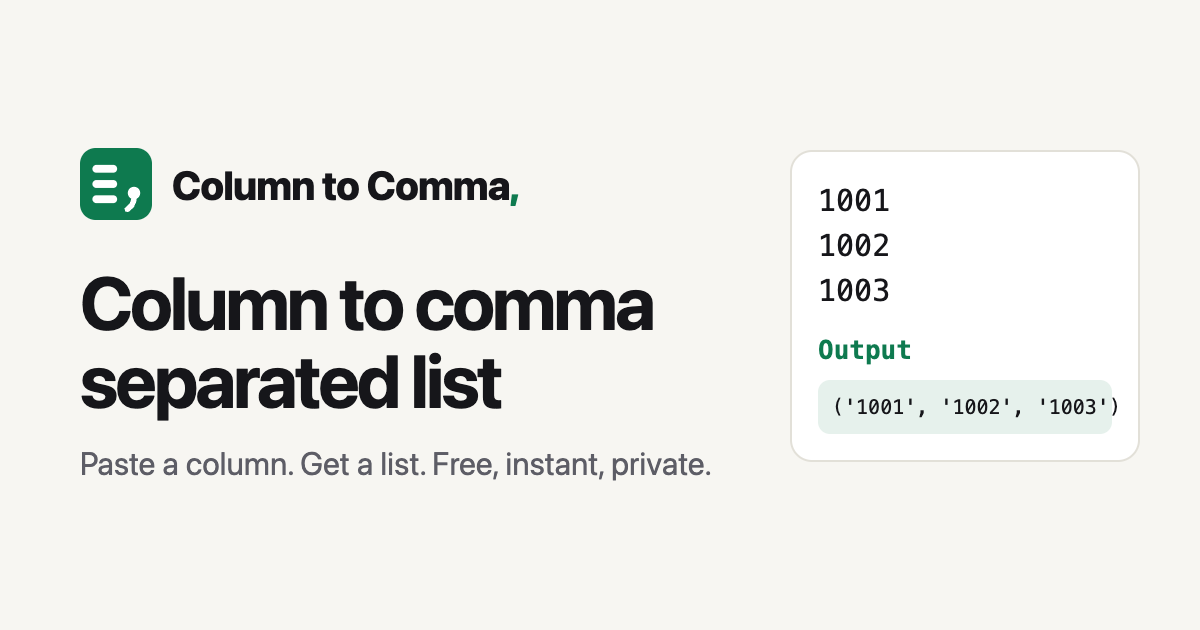
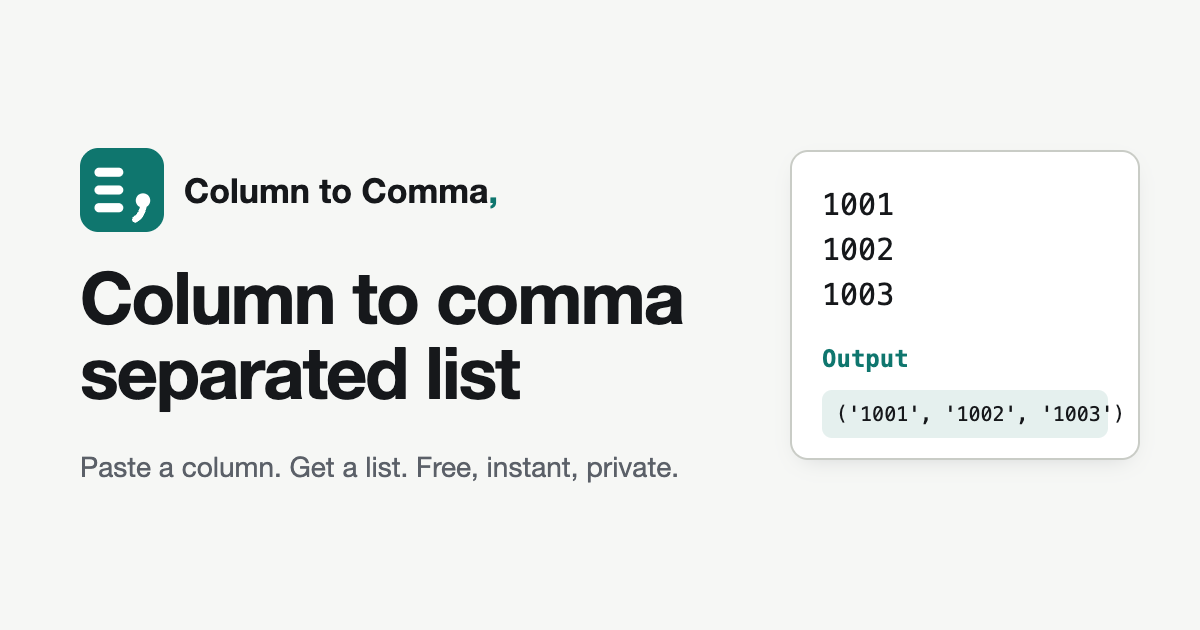
Restyle: refined minimal skin and accent

diff --git a/src/styles/global.css b/src/styles/global.css
@@ -3,6 +3,7 @@
 @custom-variant dark (&:where([data-theme="dark"], [data-theme="dark"] *));
 
 @theme inline {
+  --color-edge: var(--edge);
   --color-brand: var(--brand);
   --color-brand-ink: var(--brand-ink);
   --color-brand-soft: var(--brand-soft);
@@ -17,28 +18,38 @@
 
 :root {
   color-scheme: light;
-  --paper: #f7f6f2;
+  --paper: #f6f7f5;
   --card: #ffffff;
-  --ink: #16161a;
-  --muted: #5d5d66;
-  --line: #e2e0d8;
-  --brand-ink: color-mix(in oklab, var(--brand) 82%, black);
-  --brand-soft: color-mix(in oklab, var(--brand) 10%, var(--paper));
+  --ink: #16181b;
+  --muted: #5b6068;
+  --line: #e3e5e1;
+  --line-strong: #c9ccc6;
+  --edge: #878c93;
+  --card-shadow: 0 1px 2px rgb(16 24 40 / .05), 0 8px 24px -12px rgb(16 24 40 / .10);
+  --brand-ink: color-mix(in oklab, var(--brand) 85%, black);
+  --brand-soft: color-mix(in oklab, var(--brand) 11%, var(--card));
 }
 :root[data-theme="dark"] {
   color-scheme: dark;
-  --paper: #0f1012;
-  --card: #17181b;
-  --ink: #ececea;
-  --muted: #a0a0a8;
-  --line: #2a2b30;
+  --paper: #0f1113;
+  --card: #17191c;
+  --ink: #eceeed;
+  --muted: #a3a8b0;
+  --line: #2a2d31;
+  --line-strong: #3a3e44;
+  --edge: #6b7078;
+  --card-shadow: none;
   --brand-ink: color-mix(in oklab, var(--brand) 55%, white);
-  --brand-soft: color-mix(in oklab, var(--brand) 18%, var(--paper));
+  --brand-soft: color-mix(in oklab, var(--brand) 14%, #121416);
 }
 
 html { background: var(--paper); scroll-padding-top: 5rem; }
 body { background: var(--paper); color: var(--ink); font-family: var(--font-sans); -webkit-font-smoothing: antialiased; text-rendering: optimizeLegibility; }
-:focus-visible { outline: 2px solid var(--brand-ink); outline-offset: 2px; border-radius: 4px; }
+:focus-visible { outline: 3px solid var(--brand-ink); outline-offset: 2px; border-radius: 4px; }
+.ad-slot { margin: 2rem auto 0; max-width: 728px; min-height: 90px; border: 1px dashed var(--line-strong); border-radius: 10px; padding: 1.25rem 0.5rem 0.5rem; position: relative; }
+.ad-slot::before { content: "Advertisement"; position: absolute; top: 0.25rem; left: 0.5rem; font-size: 11px; letter-spacing: .04em; color: var(--muted); }
+@media (max-width: 639px) { .ad-slot { min-height: 100px; max-width: 320px; } }
+@media print { .ad-slot { display: none !important; } }
 @media (prefers-reduced-motion: reduce) { * { transition: none !important; animation: none !important; scroll-behavior: auto !important; } }
 
 /* Long-form text: used by article and legal pages */

diff --git a/src/site.config.ts b/src/site.config.ts
@@ -11,7 +11,7 @@ export default {
   email: 'hello@columntocommalist.com', // contact email (shown on Contact and Privacy pages)
   ga4: '',                            // GA4 measurement ID, e.g. 'G-XXXXXXXXXX'. Empty = Google Analytics off
   adsense: '',                        // AdSense publisher ID, e.g. 'ca-pub-1234567890123456'. Empty = ads off
-  brand: '#0e7a4f',                   // brand color (hex)
+  brand: '#0f766e',                   // brand color (hex)
   locale: 'en-US',                    // BCP 47 language tag
   ogImage: '/og.png',                 // 1200x630 file in public/
   category: 'UtilitiesApplication',   // schema.org applicationCategory
